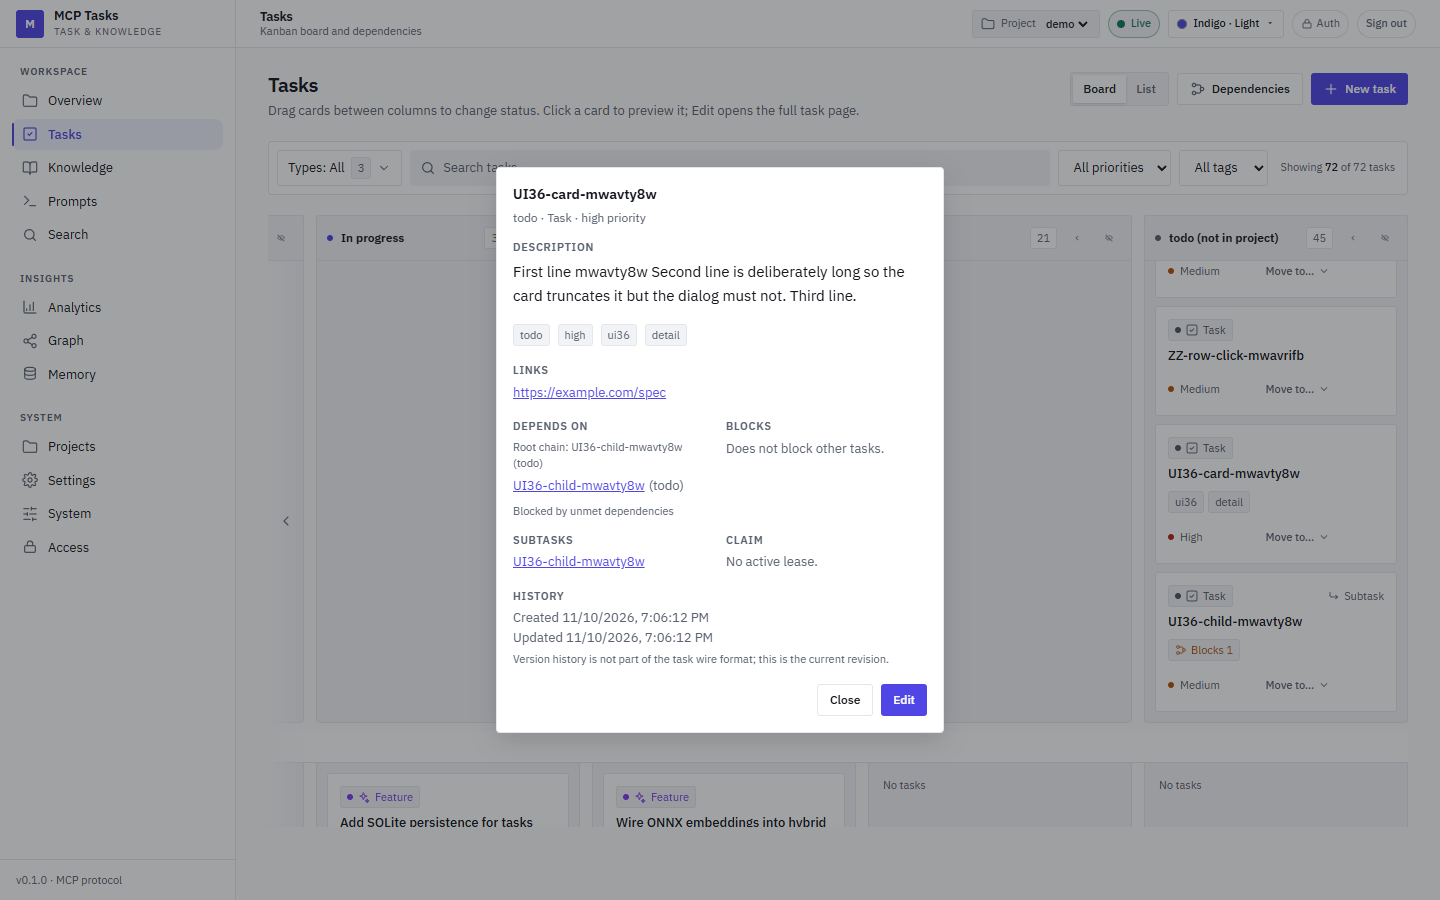
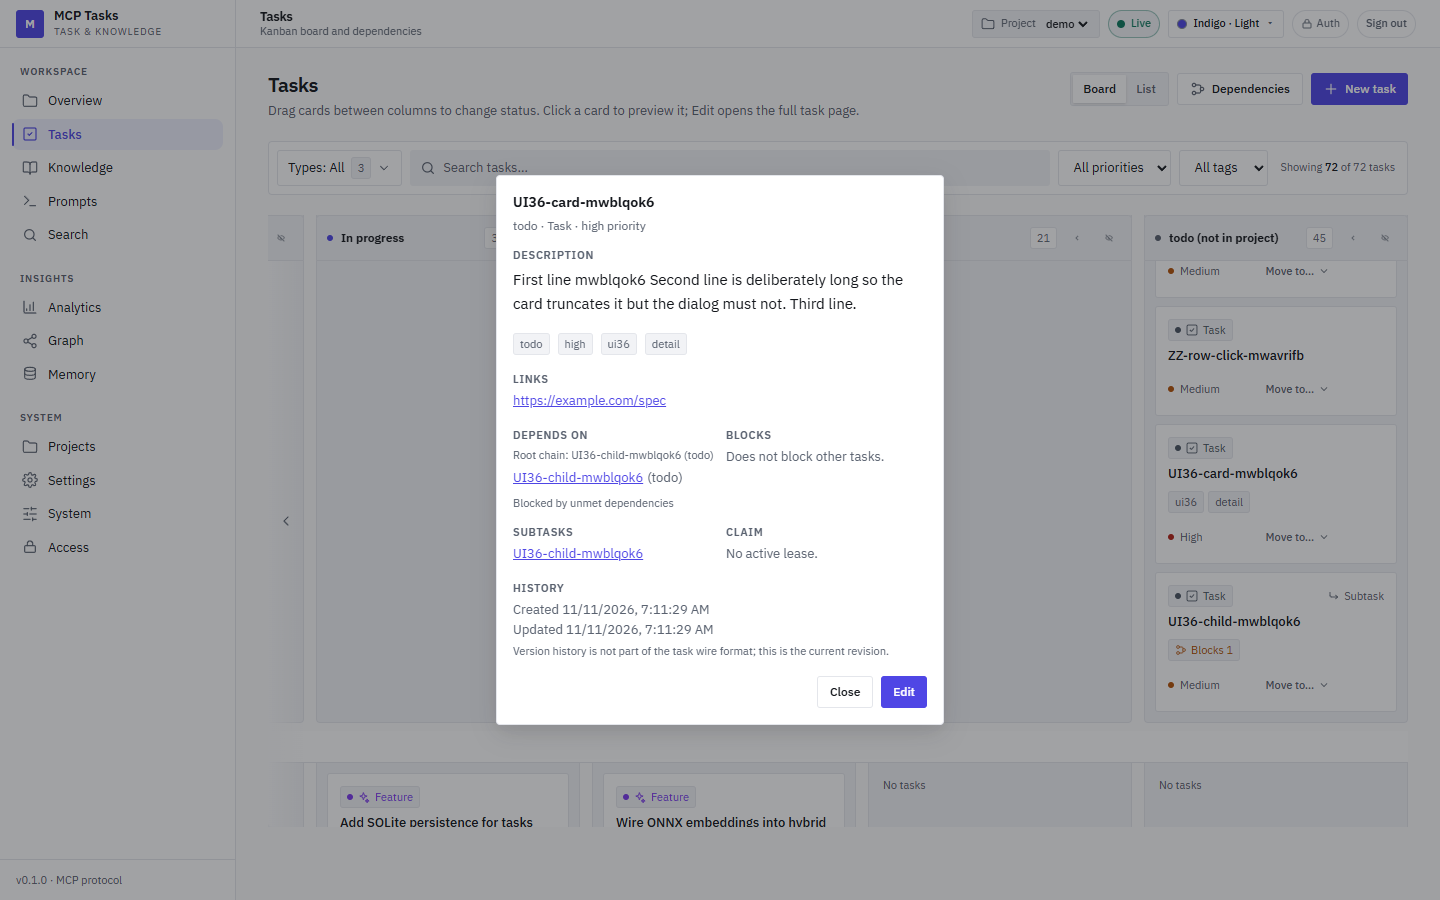
fix: имя задачи открывает полный редактор в новой вкладке [S-20261109-night]
Удалена inline-панель editingTask/saveEdit; имя на доске/в списке и Edit в quick view открывают /tasks/<id> в новой вкладке; свободная область — превью.

diff --git a/web-ui/app/tasks/page.tsx b/web-ui/app/tasks/page.tsx
@@ -146,7 +146,6 @@ export default function TasksPage() {
   const [searchQuery, setSearchQuery] = useState('');
   const [filterPriority, setFilterPriority] = useState<Priority | 'all'>('all');
   const [filterTag, setFilterTag] = useState<string>('');
-  const [editingTask, setEditingTask] = useState<Task | null>(null);
   const [viewTask, setViewTask] = useState<Task | null>(null);
   const router = useRouter();
   const [view, setView] = useState<TaskView>('board');
@@ -499,21 +498,8 @@ export default function TasksPage() {
     }
   }
 
-  async function saveEdit() {
-    if (!editingTask || !project) return;
-    try {
-      const updated = await api.tasks.update(project, editingTask.id, {
-        title: editingTask.title,
-        priority: editingTask.priority,
-        type: editingTask.type ?? DEFAULT_TASK_TYPE,
-        tags: editingTask.tags,
-      });
-      publish('task.updated', updated as unknown as Record<string, unknown>);
-      setEditingTask(null);
-      await loadTasks(project, true);
-    } catch (e) {
-      setError((e as Error).message);
-    }
+  function openTaskEditor(task: Task) {
+    window.open(`/tasks/${task.id}`, '_blank', 'noopener,noreferrer');
   }
 
   async function toggleDag() {
@@ -877,82 +863,6 @@ export default function TasksPage() {
         </div>
       )}
 
-      {editingTask && (
-        <div className="rounded-[var(--radius-card)] border border-accent bg-surface p-4 ring-1 ring-focus-ring/30">
-          <div className="mb-3 flex items-center justify-between">
-            <p className="text-[11px] font-semibold uppercase tracking-[0.08em] text-accent">
-              Edit task
-            </p>
-            <button
-              type="button"
-              onClick={() => setEditingTask(null)}
-              aria-label="Close editor"
-              className={GHOST_ICON_BUTTON}
-            >
-              <IconClose className="h-3.5 w-3.5" />
-            </button>
-          </div>
-          <input
-            type="text"
-            value={editingTask.title}
-            onChange={(e) => setEditingTask({ ...editingTask, title: e.target.value })}
-            className={INPUT_CLASS}
-            aria-label="Task title"
-          />
-          <div className="mt-2 flex flex-col gap-2 sm:flex-row">
-            <div className="inline-flex items-center gap-1.5">
-              <label htmlFor="edit-task-type" className="text-[11px] text-muted">
-                Type
-              </label>
-              <select
-                id="edit-task-type"
-                value={editingTask.type ?? DEFAULT_TASK_TYPE}
-                onChange={(e) => setEditingTask({ ...editingTask, type: e.target.value })}
-                className={SELECT_CLASS}
-                aria-label="Type"
-              >
-                {types.map((type) => (
-                  <option key={type.id} value={type.id}>
-                    {type.label}
-                  </option>
-                ))}
-              </select>
-            </div>
-            <select
-              value={editingTask.priority}
-              onChange={(e) =>
-                setEditingTask({ ...editingTask, priority: e.target.value as Priority })
-              }
-              className={SELECT_CLASS}
-              aria-label="Priority"
-            >
-              <option value="low">Low</option>
-              <option value="medium">Medium</option>
-              <option value="high">High</option>
-            </select>
-            <input
-              type="text"
-              value={(editingTask.tags ?? []).join(', ')}
-              onChange={(e) =>
-                setEditingTask({
-                  ...editingTask,
-                  tags: e.target.value
-                    .split(',')
-                    .map((t) => t.trim())
-                    .filter(Boolean),
-                })
-              }
-              placeholder="tags"
-              className={`${INPUT_CLASS} sm:flex-1`}
-              aria-label="Tags"
-            />
-            <Button type="button" variant="primary" onClick={() => void saveEdit()}>
-              Save
-            </Button>
-          </div>
-        </div>
-      )}
-
       {showDag && dag && (
         <div className="rounded-[var(--radius-card)] border border-line bg-surface">
           <div className="flex flex-wrap items-center gap-1.5 border-b border-line px-4 py-3">
@@ -1223,7 +1133,7 @@ export default function TasksPage() {
                         <td className="px-3 py-2">
                           <button
                             type="button"
-                            onClick={() => setEditingTask({ ...task })}
+                            onClick={() => openTaskEditor(task)}
                             className="text-left font-medium text-ink hover:text-accent focus-visible:outline-none focus-visible:ring-2 focus-visible:ring-focus-ring"
                           >
                             {task.title}
@@ -1349,7 +1259,7 @@ export default function TasksPage() {
                         handleCellDrop(event, lane.id, lane.label, column.id, droppable)
                       }
                       onMove={(task, to) => void moveTask(task, to, droppable)}
-                      onEdit={(task) => setEditingTask({ ...task })}
+                      onEdit={(task) => openTaskEditor(task)}
             onView={(task) => setViewTask(task)}
                       onClose={(task) => void closeTask(task.id)}
                       closeStatusId={closeStatus}
@@ -1402,7 +1312,7 @@ export default function TasksPage() {
           statuses={statuses}
           types={types}
           onClose={() => setViewTask(null)}
-          onEdit={() => router.push(`/tasks/${viewTask.id}`)}
+          onEdit={() => openTaskEditor(viewTask)}
         />
       )}
     </div>

diff --git a/web-ui/e2e/task-quick-view.spec.ts b/web-ui/e2e/task-quick-view.spec.ts
@@ -41,7 +41,7 @@ test.beforeEach(async ({ context }) => {
   await context.addInitScript((value) => sessionStorage.setItem('mcp.auth.token', value), token);
 });
 
-test('UI-36: card opens a read-only quick view with full details', async ({ page }) => {
+test('UI-36: card opens a read-only quick view with full details', async ({ page, context }) => {
   const stamp = Date.now().toString(36);
   const title = `UI36-card-${stamp}`;
   const description = `First line ${stamp}\nSecond line is deliberately long so the card truncates it but the dialog must not.\nThird line.`;
@@ -91,14 +91,24 @@ test('UI-36: card opens a read-only quick view with full details', async ({ page
   await expect(page.locator(`[data-task="${parent.id}"]`)).toBeFocused();
 
   await page.getByRole('button', { name: title, exact: true }).click();
-  await expect(page.getByText('Edit task', { exact: true })).toBeVisible();
-  await page.getByRole('button', { name: 'Close editor' }).click();
+  const [editorPage] = await Promise.all([
+    context.waitForEvent('page'),
+    page.getByRole('button', { name: title, exact: true }).click(),
+  ]);
+  await editorPage.waitForLoadState('domcontentloaded');
+  await expect(editorPage).toHaveURL(new RegExp(`/tasks/${parent.id}$`));
+  await editorPage.close();
 
   await page.locator(`[data-task="${parent.id}"]`).click({ position: { x: 6, y: 6 } });
   const reopened = page.getByRole('dialog');
   await expect(reopened).toBeVisible();
-  await reopened.getByRole('button', { name: 'Edit' }).click();
-  await expect(page).toHaveURL(new RegExp(`/tasks/${parent.id}$`));
+  const [fullPage] = await Promise.all([
+    context.waitForEvent('page'),
+    reopened.getByRole('button', { name: 'Edit' }).click(),
+  ]);
+  await fullPage.waitForLoadState('domcontentloaded');
+  await expect(fullPage).toHaveURL(new RegExp(`/tasks/${parent.id}$`));
+  await fullPage.close();
 
   await tool('tasks_bulk_trash', { project, ids: [parent.id, child.id] });
 });

diff --git a/web-ui/e2e/tasks-list.spec.ts b/web-ui/e2e/tasks-list.spec.ts
@@ -77,7 +77,7 @@ test('UI-16: select three tasks and close all three', async ({ page }) => {
 });
 
 
-test('UI-38/36: list row free area opens preview, task name opens editor', async ({ page }) => {
+test('UI-38/36: list row free area opens preview, task name opens full editor in a new tab', async ({ page, context }) => {
   const stamp = Date.now().toString(36);
   const title = `ZZ-row-click-${stamp}`;
   await page.goto('/tasks', { waitUntil: 'domcontentloaded' });
@@ -90,7 +90,11 @@ test('UI-38/36: list row free area opens preview, task name opens editor', async
   await page.keyboard.press('Escape');
   await expect(page.getByRole('dialog')).toBeHidden();
 
-  await page.getByRole('button', { name: title, exact: true }).click();
-  await expect(page.getByText('Edit task', { exact: true })).toBeVisible();
-  await page.getByRole('button', { name: 'Close editor' }).click();
+  const [editor] = await Promise.all([
+    context.waitForEvent('page'),
+    page.getByRole('button', { name: title, exact: true }).click(),
+  ]);
+  await editor.waitForLoadState('domcontentloaded');
+  await expect(editor).toHaveURL(/\/tasks\/[^/]+$/);
+  await editor.close();
 });

diff --git a/docs/dev-cycle/decisions/2026-11-11-1400-task-open-editor-new-tab.md b/docs/dev-cycle/decisions/2026-11-11-1400-task-open-editor-new-tab.md
@@ -1,0 +1,40 @@
+# 2026-11-11 14:00 — имя задачи открывает полный редактор в новой вкладке
+
+- **Тип:** прямой запрос владельца (не пункт BACKLOG), ветка `fix/task-open-editor-new-tab` от `master` `2b764d4`
+- **Затронуто:** дашборд задач (доска и список), quick view, тесты
+
+## Вопрос
+
+Почему клик по имени задачи открывает встроенную панель редактирования прямо в дашборде, и как сделать
+так, чтобы имя вело в полное редактирование в новой вкладке, а встроенное окно исчезло?
+
+## Решение
+
+- Удалена встроенная панель `editingTask` из `web-ui/app/tasks/page.tsx` вместе с `saveEdit` и её
+  состоянием; дашборд больше не содержит формы редактирования существующей задачи.
+- Имя задачи на доске и в списке вызывает `openTaskEditor(task)` →
+  `window.open(`/tasks/${task.id}`, '_blank', 'noopener,noreferrer')`: полная страница задачи
+  открывается в новой вкладке.
+- Кнопка **Edit** в quick view делает то же самое (полный редактор в новой вкладке), затем диалог
+  можно закрыть; read-only превью по клику на свободную область не изменилось.
+- Создание задачи (`New task`) остаётся в дашборде: запрос касался окна редактирования, не создания.
+
+## Почему
+
+- Один канонический редактор — полная страница `/tasks/<id>`; дублировать его в дашборде значит
+  поддерживать два набора полей/валидации и снова ловить расхождения.
+- Новая вкладка сохраняет контекст доски (фильтры, скролл) и даёт прямую ссылку на задачу.
+- `noopener,noreferrer` не даёт новой вкладке доступ к opener.
+
+## Проверено
+
+- `task-quick-view.spec.ts` — **1/1** на SQLite-демо: имя открывает новую вкладку `/tasks/<id>`,
+  свободная область — превью, Edit в превью — новая вкладка полного редактора.
+- `tasks-list.spec.ts` — **1/1**: пустая ячейка строки → превью, имя → новая вкладка `/tasks/<id>`.
+- web tsc чистый; встроенный `Edit task`/`Close editor` больше не находится на дашборде.
+- Демо перезапущено hidden: web `127.0.0.1:3000`, MCP `127.0.0.1:3001`.
+
+## Откат
+
+Revert ветки: возвращаются `editingTask`/`saveEdit` и встроенная панель, `openTaskEditor` заменяется
+на прежние колбэки; тесты возвращаются к проверке встроенного редактора. BACKLOG/счётчики не менялись.

diff --git a/CHANGELOG.md b/CHANGELOG.md
@@ -8,6 +8,7 @@
 
 ### Added
 
+- Task dashboard: the inline **Edit task** panel was removed. The task name (board and list) and the quick-view **Edit** button now open the full `/tasks/<id>` editor in a new tab; the card/row free area still opens the read-only preview. Creation stays in the dashboard. One quick-view and one list Playwright scenario verify the new-tab editor on the SQLite demo; web tsc is clean.
 - Task UX hotfix: the task **name opens the editor** while the card/row free area opens the read-only preview, consistently on the board and in the list (the card article is focusable so focus returns from the dialog). `tasks_get_deps` now resolves tasks through the storage profile instead of the file store, fixing the SQLite demo's "Could not load this task"; the preview treats a dependency-read failure as an empty block rather than a fatal load error. Task descriptions gained a Markdown `Edit`/`Preview` switch on the full page, and the preview renders Markdown with the existing escaping-first renderer. Verified by quick-view/list Playwright scenarios on the SQLite demo, the Markdown preview in the task-detail scenario, and web tsc; the local SQLite task-detail run still hits the known transition/claim profile gap, CI uses the file profile
 - UI-39 graph metrics: `tasks_list`/`tasks_get` accept an opt-in `includeGraphMetrics` flag and add `dependentsCount` (transitive reverse BFS over `dependsOn`) and `onCriticalPath` (membership in the existing longest chain). Cards, the quick view and the full task page show two text+icon labels, `Critical path` and `Blocks N`; the `Blocks` tone escalates at N≥3 from semantic tokens, with the priority band kept separate. A server test builds A→B→C, checks 2/1/0 transitive dependents and the critical path, verifies the flag is opt-in, and recalculates after `tasks_set_deps`; a component test proves the labels are rendered as text. Two mutations were red (direct-only count; every task marked critical). The metrics are opt-in so the normal list stays cheap; the task UI requests them and is therefore O(graph) per page (SC-04 candidate). Known SQLite gap: no `dependsOn` persistence, so labels are empty on the SQLite demo while the file profile/CI is green
 - UI-38 task dependencies: the task page and quick view show blockers/dependents with their statuses, an `isBlocked` flag separate from the task status, and a cycle-safe root chain. Dependencies can be added/removed from the task page; the server now returns the stable `DEPENDENCY_CYCLE` code for cycles, and the UI shows it without changing state. The old inline project summary moved to `/tasks/dag`, where `tag`, `limit` and `onlyWithDeps` are real `tasks_dag` arguments. One Playwright test covers blockers/statuses, add/remove, cycle rejection with unchanged state, and the DAG request filters; full suite 48/48. Two mutations were red. Known profile gap: SQLite does not persist `dependsOn` and returns zero DAG edges, so the dependency panel is empty on the SQLite demo while the file profile/CI is green

diff --git a/AGENTS.md b/AGENTS.md
@@ -426,9 +426,16 @@ docker run --rm -it -e DATA_DIR=/data -v "$PWD/.data":/data mcp-task-knowledge
 
 **Дата последнего обновления:** 2026-11-11
 **Session ID:** S-20261109-night (Y, TS-01, DX-10, DX-11, DX-16, CM-01, AA-01, AA-05, Z-01, Z-02, Z-04, Z-10, Z-12, CM-03a, T-01, UI-11, UI-12, UI-15, UI-16, UI-36, UI-37, UI-38, UI-39 закрыты; UX-hotfix)
-**Текущая ветка:** fix/task-ux-hotfix (от master 28b8698)
-**Текущий этап:** hotfix по прямому запросу владельца; после мержа — следующий пункт бэклога (UI-17/Z-11/Z-03/AA-04/SC-04)
-**Статус:** клики имя→редактор/фон→превью, профильный getDeps (SQLite), Markdown Edit/Preview; quick view и list-row сценарии зелёные на SQLite.
+**Текущая ветка:** fix/task-open-editor-new-tab (от master 2b764d4)
+**Текущий этап:** после мержа UX-правки — следующий пункт бэклога (UI-17/Z-11/Z-03/AA-04/SC-04)
+**Статус:** встроенный редактор дашборда удалён; имя/Edit открывают полную страницу в новой вкладке; 2 e2e сценария зелёные на SQLite.
+
+### Сессия S-20261109-night (task name → full editor in new tab)
+
+- Удалены `editingTask`, `saveEdit` и inline-панель из `app/tasks/page.tsx`.
+- `openTaskEditor`: `window.open('/tasks/<id>', '_blank', 'noopener,noreferrer')` для доски, списка и quick view Edit.
+- Тесты: quick-view 1/1, list-row 1/1 на SQLite; свободная область по-прежнему открывает превью.
+- Решение/откат: `docs/dev-cycle/decisions/2026-11-11-1400-task-open-editor-new-tab.md`.
 
 ### Сессия S-20261109-night (task UX hotfix)
 
